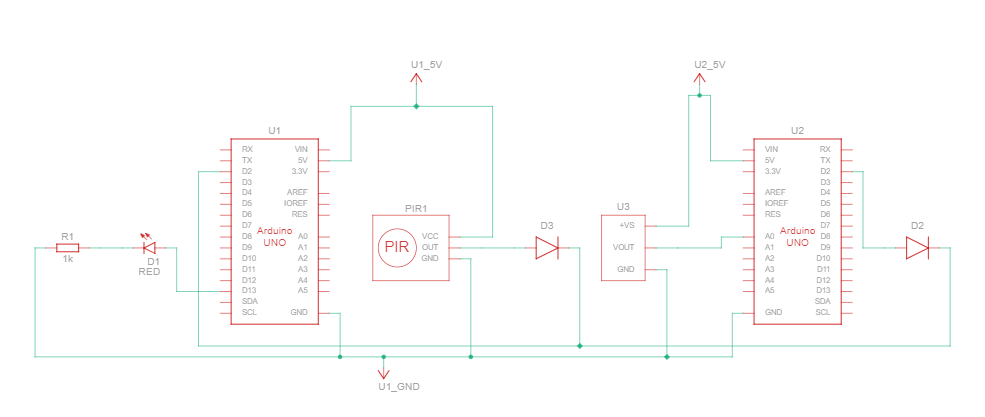
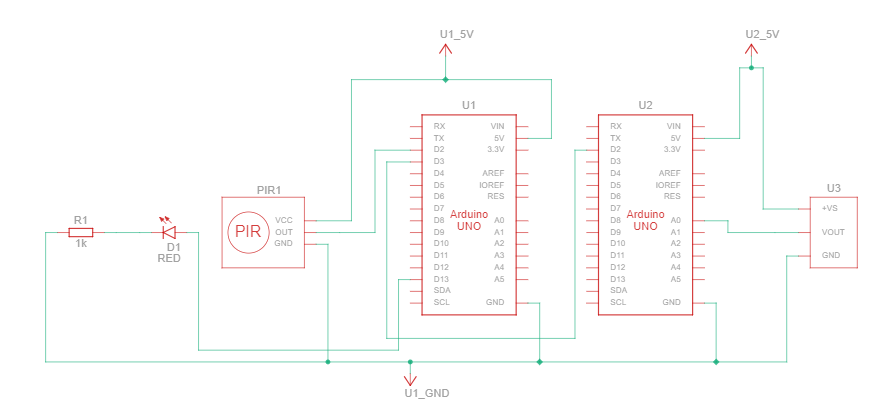
Add files via upload

diff --git a/M1-T3C/Task 1.3C.cpp b/M1-T3C/Task 1.3C.cpp
@@ -1,16 +1,17 @@
 // Arduino 1
 //
-int sensorValue = 0;
+int pin2Value = 0;
+int pin3Value = 0;
 
 void setup()
 {
   pinMode(2, INPUT);
   pinMode(3, INPUT);
   Serial.begin(9600);
-  pinMode(13, INPUT);
   pinMode(13, OUTPUT);
   
   attachInterrupt(digitalPinToInterrupt(2),changeLED,CHANGE);
+  attachInterrupt(digitalPinToInterrupt(3),changeLED,CHANGE);
 }
 
 void loop()
@@ -19,12 +20,14 @@ void loop()
 
 void changeLED()
 {
-  sensorValue = digitalRead(2);
-  Serial.print("sensor input: ");
-  Serial.println(sensorValue);
+  pin2Value = digitalRead(2);
+  pin3Value = digitalRead(3);
+  Serial.println("sensor inputs: ");
+  Serial.println(pin2Value);
+  Serial.println(pin3Value);
   Serial.print("LED output: ");
   Serial.println(digitalRead(13));
-  if (sensorValue == HIGH) {
+  if (pin2Value == HIGH || pin3Value == HIGH) {
     digitalWrite(13, HIGH);
   } else {
     digitalWrite(13, LOW);
@@ -42,7 +45,6 @@ void setup()
 
 void loop()
 {
-  //Serial.println(analogRead(A0));
   if(analogRead(A0) >= 184) {
   	digitalWrite(2, HIGH);
   } else {
